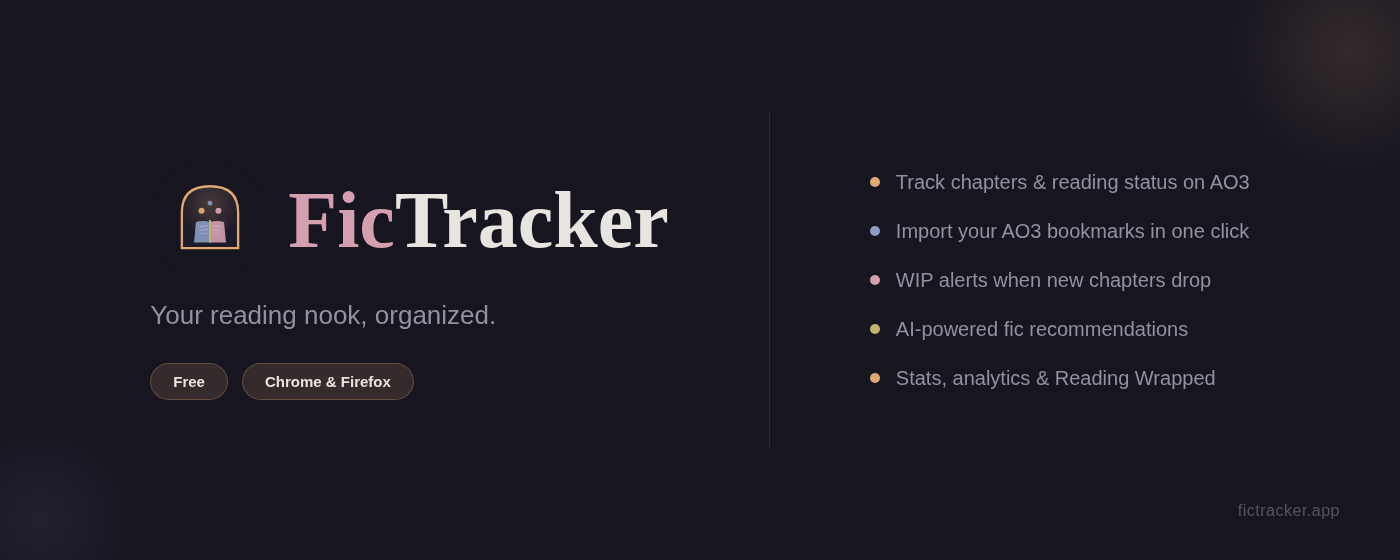
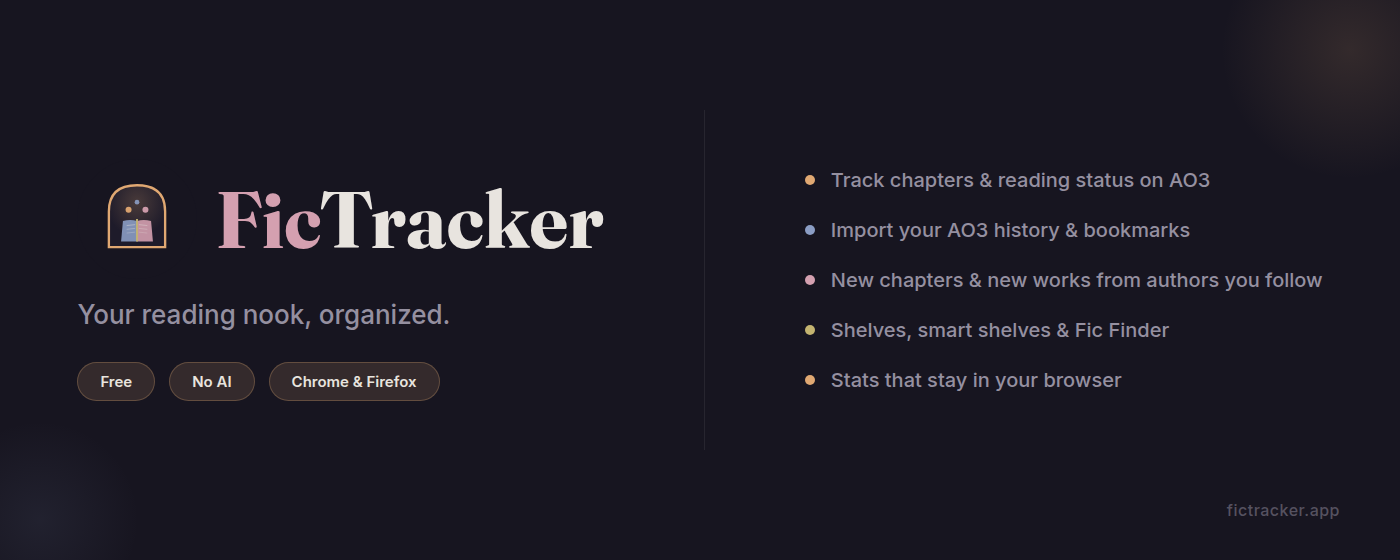
Store materials for 2.0.0
- store-assets/LISTING.md: listing text, Chrome privacy answers and
  permission explanations, AMO reviewer notes, and a reply for the old
  AMO reviews.
- Re-render the marquee and small tile from promo-tile.html; the old
  ones still advertised AI recommendations and Reading Wrapped.
- Remove two unused v1 promo images.
- BUILD-FOR-REVIEWERS.md: build steps for AMO's source review.

diff --git a/promo-tile.html b/promo-tile.html
@@ -176,13 +176,13 @@
   <label>Small promo tile — 440×280</label>
   <div class="tile" id="small">
     <div class="inner">
-      <img class="logo-img" src="public/logo.svg" alt="">
+      <img class="logo-img" src="site/logo.svg" alt="">
       <div class="wordmark"><span class="fic">Fic</span><span class="tracker">Tracker</span></div>
       <div class="tagline">Your reading nook, organized.</div>
       <div class="chips">
-        <div class="chip">AO3 Tracker</div>
-        <div class="chip">WIP Alerts</div>
-        <div class="chip">WIP updates</div>
+        <div class="chip">Free</div>
+        <div class="chip">No account</div>
+        <div class="chip">No AI</div>
       </div>
     </div>
   </div>
@@ -193,22 +193,23 @@
     <div class="inner">
       <div class="left">
         <div class="logo-row">
-          <img class="logo-img" src="public/logo.svg" alt="">
+          <img class="logo-img" src="site/logo.svg" alt="">
           <div class="wordmark"><span class="fic">Fic</span><span class="tracker">Tracker</span></div>
         </div>
         <div class="tagline">Your reading nook, organized.</div>
         <div class="chips">
           <div class="chip">Free</div>
+          <div class="chip">No AI</div>
           <div class="chip">Chrome &amp; Firefox</div>
         </div>
       </div>
       <div class="divider"></div>
       <div class="right">
         <div class="feature"><div class="dot dot-amber"></div>Track chapters &amp; reading status on AO3</div>
-        <div class="feature"><div class="dot dot-twilight"></div>Import your AO3 bookmarks in one click</div>
-        <div class="feature"><div class="dot dot-blush"></div>WIP alerts when new chapters drop</div>
-        <div class="feature"><div class="dot dot-gold"></div>Remembers your chapter in every fic</div>
-        <div class="feature"><div class="dot dot-amber2"></div>Stats &amp; analytics</div>
+        <div class="feature"><div class="dot dot-twilight"></div>Import your AO3 history &amp; bookmarks</div>
+        <div class="feature"><div class="dot dot-blush"></div>New chapters &amp; new works from authors you follow</div>
+        <div class="feature"><div class="dot dot-gold"></div>Shelves, smart shelves &amp; Fic Finder</div>
+        <div class="feature"><div class="dot dot-amber2"></div>Stats that stay in your browser</div>
       </div>
     </div>
   </div>

diff --git a/extension/store-assets/LISTING.md b/extension/store-assets/LISTING.md
@@ -1,0 +1,97 @@
+# FicTracker 2.0.0 store submission
+
+Everything to paste into the Chrome Web Store dashboard and AMO for 2.0.0.
+Uploads live in `extension/dist/` after `npm run build:ext`:
+
+- Chrome: `fictracker-chrome-v2.0.0.zip`
+- Firefox: `fictracker-firefox-v2.0.0.zip`, plus `fictracker-source-v2.0.0.zip`
+  as the source code (it includes `BUILD-FOR-REVIEWERS.md`)
+
+Images in this folder: `marquee-1400x560.png` (Chrome marquee),
+`small-tile-440x280.png` (Chrome small promo tile). Rendered from
+`promo-tile.html` at the repo root. Screenshots (1280x800) still to take
+from a real library.
+
+---
+
+## Summary
+
+Chrome uses the manifest description (132 characters max), so there's
+nothing to paste. AMO's summary (250 max):
+
+> Track your AO3 reading, WIP updates and the authors you follow. Free, no account, no AI. Your library stays in your browser.
+
+## Description (both stores)
+
+> FicTracker keeps track of what you're reading on Archive of Our Own, right where you read it.
+>
+> Open a fic on AO3 and a small panel shows your progress. Read the next chapter and it moves along with you. Set a status (Reading, To Read, Completed, On Hold, Dropped), and rate it from your library.
+>
+> What it does:
+> - Tracks your chapter and status in every fic as you read on AO3
+> - Imports your AO3 history and bookmarks, a page at a time, from those pages on AO3
+> - Checks your WIPs for new chapters and shows a count on the toolbar button
+> - Follows authors and series and tells you when they post something new
+> - Shelves, smart shelves and saved Fic Finder searches, in your library or on AO3
+> - Stats on what you read: words, fandoms, ships, streaks
+> - EPUB import and a backup file you can export and restore
+>
+> What it doesn't do:
+> - No account. Your library is stored in your browser and never sent to us.
+> - No AI. No recommendations made up by a model, no taste profiles.
+> - No paywall. Everything is free. If you want to chip in, there's a Ko-fi link in Settings.
+>
+> Being polite to AO3: AO3 is run by volunteers, so FicTracker asks it for one page at a time, at least 3 seconds apart, and backs off for 10 minutes if AO3 says it's busy.
+>
+> Used the old FicTracker web app? Install the extension and open fictracker.app once. Your library is copied over automatically.
+>
+> FicTracker isn't affiliated with AO3 or the Organization for Transformative Works.
+
+## What's new in 2.0.0 (AMO version notes / Chrome has no field)
+
+> FicTracker 2.0 is a rebuild based on your feedback. Sign-in is gone (it was broken, sorry!) and so are accounts, the paid tier and AI Picks. Everything now lives in the extension: your library opens from the toolbar button. New: AO3 history import, WIP and author/series update checks, and a Fic Finder that searches AO3 for any of your tags.
+
+---
+
+## Chrome Web Store: Privacy practices tab
+
+**Single purpose**
+
+> FicTracker tracks the user's reading on Archive of Our Own (archiveofourown.org): progress and status in each fic, a personal library, and updates to fics, authors and series the user follows.
+
+**Permission justifications**
+
+- **storage**
+  > Stores the user's library (fics, reading progress, statuses, shelves, follows and settings) in the browser. This is the only place the data lives; there is no server.
+- **unlimitedStorage**
+  > Libraries can hold thousands of fics with tags and reading history, which can grow past the default local storage quota. Without it, imports of a large AO3 history would fail partway.
+- **alarms**
+  > Runs the optional background check for new chapters in the user's WIPs and new works from followed authors and series, every 12 hours by default (adjustable or off in Settings).
+- **Host permission: https://archiveofourown.org/\***
+  > Shows the reading panel on AO3 work pages, imports the user's history and bookmarks from their own AO3 pages, and fetches the user's tracked fics and followed authors/series to check for updates. Requests are paced at least 3 seconds apart.
+- **Host permission: https://fictracker.app/\***
+  > One-time move from the old FicTracker web app: reads the library that app left in the browser's storage on fictracker.app and copies it into the extension. Nothing is sent anywhere.
+
+**Remote code:** No, I am not using remote code. (All code is in the package.)
+
+**Data usage:** Leave every data type unchecked. FicTracker doesn't collect or transmit user data to the developer or any third party. Then tick all three certifications (not sold, not used for unrelated purposes, not used for credit).
+
+**Privacy policy URL:** https://fictracker.app/privacy
+
+## AMO: other fields
+
+- **Categories:** keep whatever the 1.x listing uses.
+- **Support site:** https://fictracker.app
+- **Privacy policy:** paste the text of `site/privacy.html` (AMO hosts its own copy) or link it.
+- **Notes to reviewer:**
+  > Source is attached (fictracker-source-v2.0.0.zip). Build steps are in BUILD-FOR-REVIEWERS.md: `npm ci && npm run build:ext` with Node 24; the output in extension/dist/build-firefox matches the uploaded package byte for byte. The background script and content scripts are not minified; the library page (app/) is built by Vite. To test: open any work on archiveofourown.org, the panel appears at the bottom right; the toolbar button opens the library. No account is needed.
+
+---
+
+## Reply for the old 1-star AMO reviews
+
+Post once 2.0.0 is live. Same text works for both reviews.
+
+> Hey! You were right, sign-in was broken and I'm sorry it wasted your time. FicTracker 2.0 is out and there's no sign-in anymore: no account, no paywall and no AI, and your library just lives in your browser. If you give it another try I'd love to hear what you think!
+>
+> Ro

diff --git a/extension/BUILD-FOR-REVIEWERS.md b/extension/BUILD-FOR-REVIEWERS.md
@@ -1,0 +1,36 @@
+# Building FicTracker 2.0.0 from source
+
+The add-on is built from this source with Vite (the library page, React) and
+esbuild (background script and content scripts). Nothing is downloaded at
+build time except npm packages, pinned by package-lock.json.
+
+## Requirements
+
+- Node.js 24 (tested with v24.21.0); npm 11 or later
+- Linux or macOS
+
+## Steps
+
+```bash
+npm ci
+npm run build:ext
+```
+
+The Firefox build is written to `extension/dist/build-firefox/`, and the
+uploaded package is `extension/dist/fictracker-firefox-v2.0.0.zip`.
+
+## Where things come from
+
+| In the package | Source |
+| --- | --- |
+| `background.js` | `src/ext/background.js` (bundled with esbuild, not minified) |
+| `content/ao3.js` | `src/ext/content-ao3.js` and `src/ext/ao3-import.js` |
+| `content/site.js` | `src/ext/content-site.js` |
+| `app/` | the React app in `src/` (built by Vite, minified) |
+| `manifest.json` | `extension/manifest.json`, with Firefox settings added by `extension/build.mjs` |
+
+Third-party code is only what's in package.json (React, Recharts, JSZip,
+linkedom and their dependencies). There is no remote code, no analytics and
+no AI. The add-on talks to archiveofourown.org (the user's own pages, paced
+at most one request every 3 seconds) and reads fictracker.app's local
+storage once to copy a library from the old web app.
